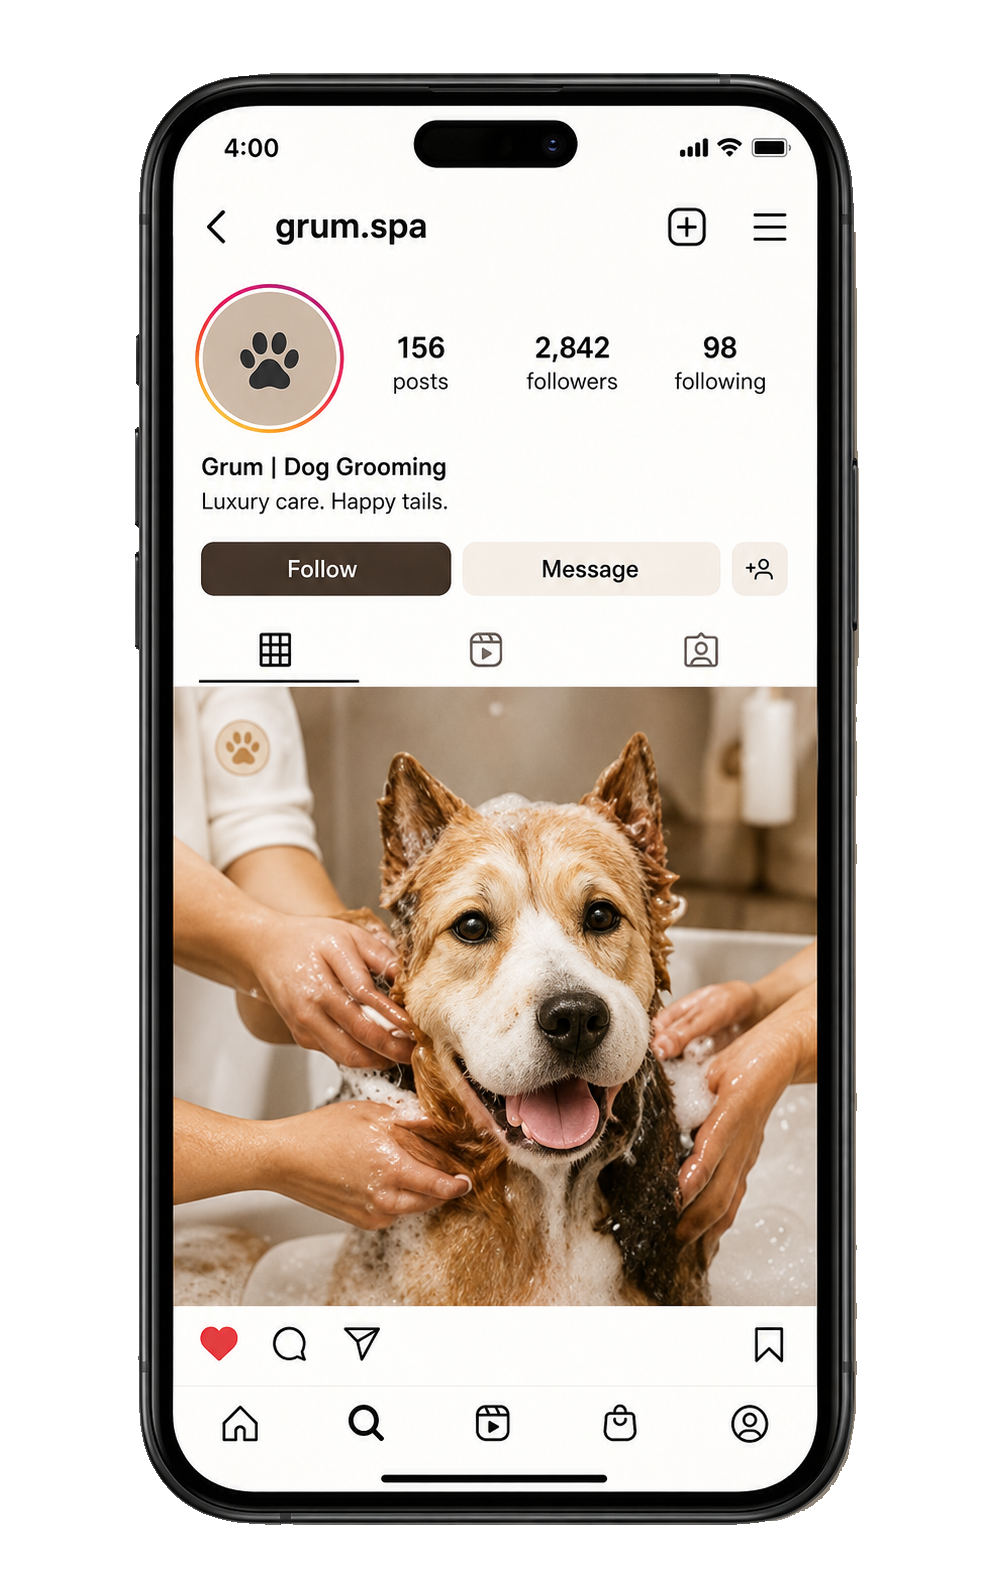
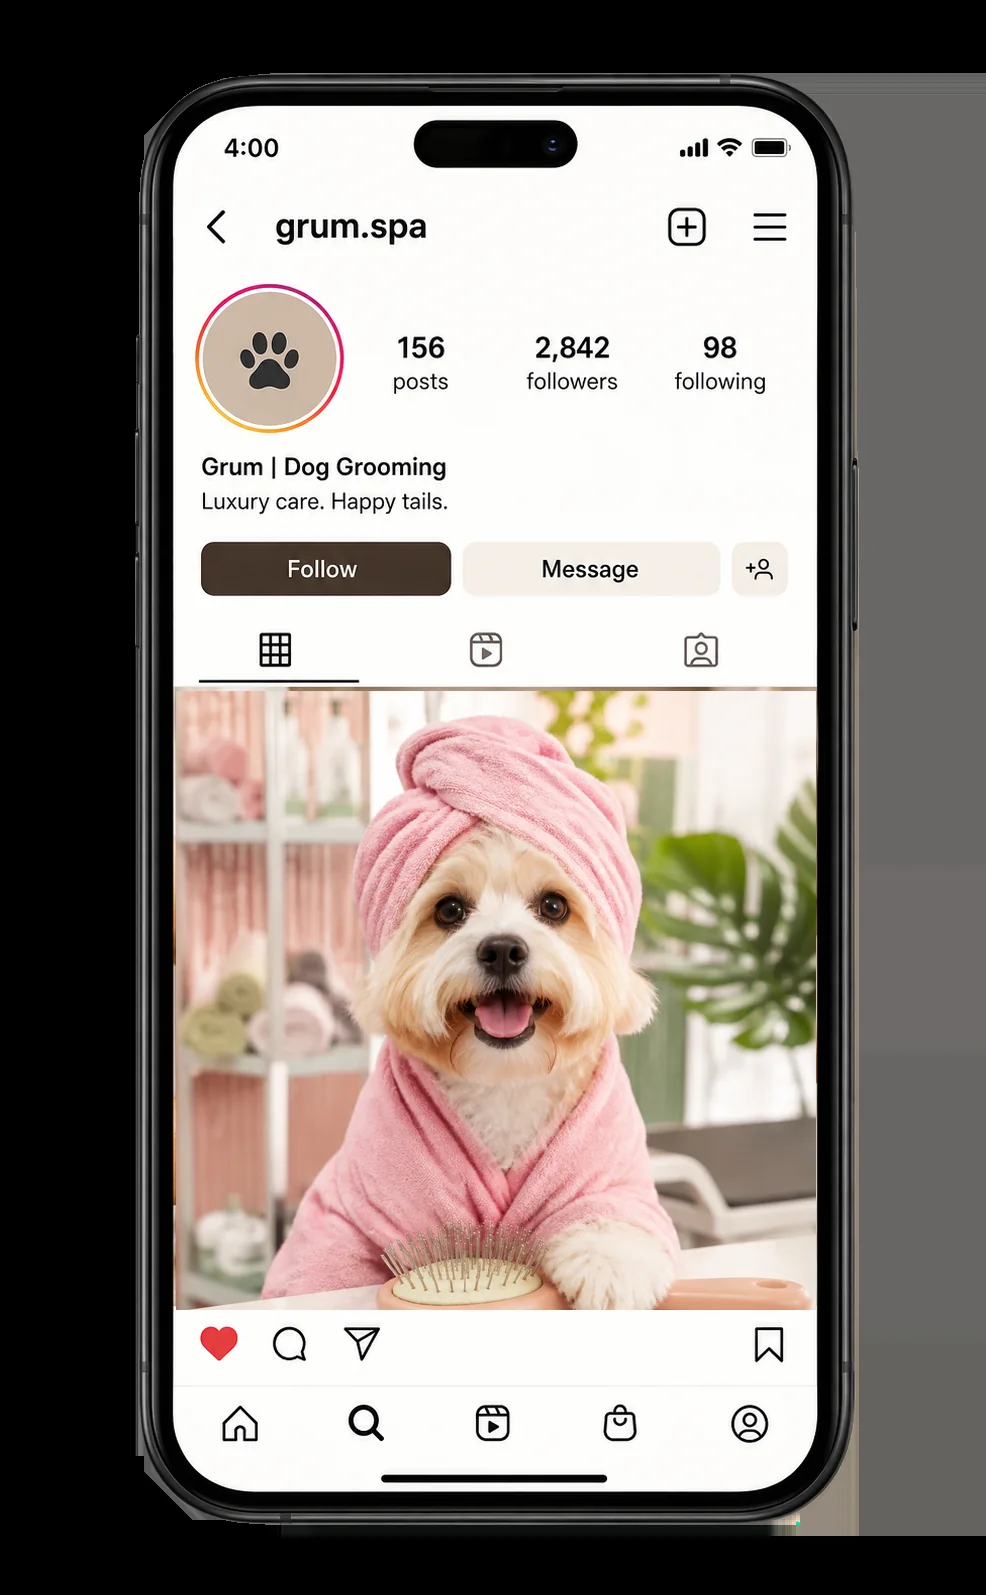
Refine Instagram and blog imagery

diff --git a/blog.html b/blog.html
@@ -28,7 +28,7 @@
           <button class="btn btn-primary" data-book><span class="phone-icon" aria-hidden="true"></span>BOOK APPOINTMENT</button>
         </div>
         <div class="page-hero-photo">
-          <img src="assets/blog-bath.webp" alt="White dog wrapped in a towel" />
+          <img src="assets/service-bath.jpg" alt="White dog wrapped in a towel" />
         </div>
       </div>
     </section>
@@ -39,8 +39,8 @@
         <h2 class="content-heading">GROOMING <span>GUIDES &amp; TIPS</span></h2>
 
         <div class="blog-list">
-          <article class="blog-post" tabindex="0" role="button" data-blog-title="HOW OFTEN SHOULD YOU ACTUALLY BATHE YOUR DOG?" data-blog-category="GROOMING BASICS" data-blog-image="assets/blog-bath.webp" data-blog-body="Most dogs do well with a bath every four to six weeks, but the right schedule depends on coat type, skin sensitivity, activity level, and how much time they spend outside.|Short-coated dogs may need less frequent baths, while curly, long, or double-coated dogs often need more regular professional care to prevent buildup and matting.|If your dog smells, feels greasy, scratches more than usual, or leaves extra dirt on bedding, it may be time for a bath. If the skin looks dry or irritated, we can help choose a gentler rhythm.">
-            <img src="assets/blog-bath.webp" alt="White dog wrapped in a towel" loading="lazy" />
+          <article class="blog-post" tabindex="0" role="button" data-blog-title="HOW OFTEN SHOULD YOU ACTUALLY BATHE YOUR DOG?" data-blog-category="GROOMING BASICS" data-blog-image="assets/service-bath.jpg" data-blog-detail-image="assets/blog-detail-bath.webp" data-blog-body="Most dogs do well with a bath every four to six weeks, but the right schedule depends on coat type, skin sensitivity, activity level, and how much time they spend outside.|Short-coated dogs may need less frequent baths, while curly, long, or double-coated dogs often need more regular professional care to prevent buildup and matting.|If your dog smells, feels greasy, scratches more than usual, or leaves extra dirt on bedding, it may be time for a bath. If the skin looks dry or irritated, we can help choose a gentler rhythm.">
+            <img src="assets/service-bath.jpg" alt="White dog wrapped in a towel" loading="lazy" />
             <div class="blog-post-body">
               <p class="blog-date">GROOMING BASICS</p>
               <h3>HOW OFTEN SHOULD YOU ACTUALLY BATHE YOUR DOG?</h3>
@@ -48,8 +48,8 @@
             </div>
           </article>
 
-          <article class="blog-post" tabindex="0" role="button" data-blog-title="BRUSHING BETWEEN VISITS: A 5-MINUTE ROUTINE THAT WORKS" data-blog-category="COAT CARE" data-blog-image="assets/blog-brushing.webp" data-blog-body="A short brushing routine a few times a week can make a huge difference, especially around the ears, chest, tail, belly, and legs where mats start fastest.|Use slow passes, work in small sections, and stop if your dog gets uncomfortable. The goal is consistency, not a wrestling match.|Regular brushing helps keep appointments calmer because the coat is easier to wash, dry, and style. It also lets you spot skin changes before they become bigger problems.">
-            <img src="assets/blog-brushing.webp" alt="A groomer gently brushing a Pomeranian" loading="lazy" />
+          <article class="blog-post" tabindex="0" role="button" data-blog-title="BRUSHING BETWEEN VISITS: A 5-MINUTE ROUTINE THAT WORKS" data-blog-category="COAT CARE" data-blog-image="assets/service-hair.jpg" data-blog-detail-image="assets/blog-detail-brushing.webp" data-blog-body="A short brushing routine a few times a week can make a huge difference, especially around the ears, chest, tail, belly, and legs where mats start fastest.|Use slow passes, work in small sections, and stop if your dog gets uncomfortable. The goal is consistency, not a wrestling match.|Regular brushing helps keep appointments calmer because the coat is easier to wash, dry, and style. It also lets you spot skin changes before they become bigger problems.">
+            <img src="assets/service-hair.jpg" alt="Fluffy pomeranian dog" loading="lazy" />
             <div class="blog-post-body">
               <p class="blog-date">COAT CARE</p>
               <h3>BRUSHING BETWEEN VISITS: A 5-MINUTE ROUTINE THAT WORKS</h3>
@@ -57,8 +57,8 @@
             </div>
           </article>
 
-          <article class="blog-post" tabindex="0" role="button" data-blog-title="SIGNS YOUR DOG'S NAILS ARE OVERDUE FOR A TRIM" data-blog-category="NAIL &amp; PAW CARE" data-blog-image="assets/blog-nails.webp" data-blog-body="If you hear clicking on hard floors, see nails touching the ground while your dog stands, or notice curling tips, it is probably time for a trim.|Long nails can change posture and make walking less comfortable. Some dogs also start slipping more because their paws cannot sit naturally.|For nervous pets, shorter and more frequent nail appointments can be easier than waiting until the nails are very long.">
-            <img src="assets/blog-nails.webp" alt="Small dog having nails clipped" loading="lazy" />
+          <article class="blog-post" tabindex="0" role="button" data-blog-title="SIGNS YOUR DOG'S NAILS ARE OVERDUE FOR A TRIM" data-blog-category="NAIL &amp; PAW CARE" data-blog-image="assets/service-nails.jpg" data-blog-detail-image="assets/blog-detail-nails.webp" data-blog-body="If you hear clicking on hard floors, see nails touching the ground while your dog stands, or notice curling tips, it is probably time for a trim.|Long nails can change posture and make walking less comfortable. Some dogs also start slipping more because their paws cannot sit naturally.|For nervous pets, shorter and more frequent nail appointments can be easier than waiting until the nails are very long.">
+            <img src="assets/service-nails.jpg" alt="Small dog having nails clipped" loading="lazy" />
             <div class="blog-post-body">
               <p class="blog-date">NAIL &amp; PAW CARE</p>
               <h3>SIGNS YOUR DOG'S NAILS ARE OVERDUE FOR A TRIM</h3>
@@ -66,7 +66,7 @@
             </div>
           </article>
 
-          <article class="blog-post" tabindex="0" role="button" data-blog-title="WHAT TO EXPECT AT YOUR DOG'S FIRST GRÜM APPOINTMENT" data-blog-category="FIRST VISIT" data-blog-image="assets/blog-first-visit.webp" data-blog-body="The first visit starts with a quick check-in so we can learn about your dog's coat, comfort level, health notes, and the service you want.|From there, we move at your pet's pace. A one-on-one appointment keeps things calmer because your dog is not waiting in a crowded space.|After the groom, we will let you know how the coat did, what maintenance helps at home, and when the next appointment should be.">
+          <article class="blog-post" tabindex="0" role="button" data-blog-title="WHAT TO EXPECT AT YOUR DOG'S FIRST GRÜM APPOINTMENT" data-blog-category="FIRST VISIT" data-blog-image="assets/blog-first-visit.webp" data-blog-detail-image="assets/blog-first-visit.webp" data-blog-body="The first visit starts with a quick check-in so we can learn about your dog's coat, comfort level, health notes, and the service you want.|From there, we move at your pet's pace. A one-on-one appointment keeps things calmer because your dog is not waiting in a crowded space.|After the groom, we will let you know how the coat did, what maintenance helps at home, and when the next appointment should be.">
             <img src="assets/blog-first-visit.webp" alt="A puppy meeting its groomer for the first time" loading="lazy" />
             <div class="blog-post-body">
               <p class="blog-date">FIRST VISIT</p>
@@ -90,7 +90,7 @@
   <dialog class="modal blog-detail-modal" id="blogDetailModal">
     <button class="modal-close" type="button" data-close-blog aria-label="Close">×</button>
     <div class="blog-detail-scroll">
-      <img id="blogDetailImage" src="assets/blog-bath.webp" alt="" loading="lazy" />
+      <img id="blogDetailImage" src="assets/blog-detail-bath.webp" alt="" loading="lazy" />
       <div class="blog-detail-copy">
         <p class="kicker" id="blogDetailCategory">BLOG</p>
         <h2 id="blogDetailTitle">BLOG POST.</h2>

diff --git a/index.html b/index.html
@@ -93,18 +93,19 @@
       <div class="section-width gallery-inner">
         <figure class="phone-mock grum-instagram">
           <img src="assets/instagram-phone.webp" alt="Grum dog grooming Instagram profile showing a dog enjoying a bath" />
+          <span class="instagram-message-label" aria-hidden="true">Message</span>
           <a class="profile" href="https://www.instagram.com/" target="_blank" rel="noopener noreferrer" aria-label="Open Instagram (opens in a new tab)"></a>
           <a class="follow" href="https://www.instagram.com/" target="_blank" rel="noopener noreferrer" aria-label="Open Instagram to follow (opens in a new tab)"></a>
         </figure>
         <div class="gallery-title"><p class="kicker">FOLLOW OUR JOURNEY!</p><h2>ON INSTAGRAM</h2></div>
         <a class="gallery-more" href="https://www.instagram.com/" target="_blank" rel="noreferrer">VIEW MORE ON INSTAGRAM <i aria-hidden="true"></i></a>
         <div class="ig-grid">
-          <img src="assets/ig-1.jpg" alt="Dog grooming Instagram post" loading="lazy" />
-          <img src="assets/ig-2.jpg" alt="Dog grooming Instagram post" loading="lazy" />
-          <img src="assets/ig-3.jpg" alt="Grüm grooming products" loading="lazy" />
-          <img src="assets/ig-4.jpg" alt="Golden retriever bathing" loading="lazy" />
-          <img src="assets/ig-5.jpg" alt="Groomed poodle" loading="lazy" />
-          <img src="assets/ig-6.jpg" alt="Grüm grooming studio" loading="lazy" />
+          <img src="assets/ig-funny-1.webp" alt="Dog peeking from a bubble bath" loading="lazy" />
+          <img src="assets/ig-funny-2.webp" alt="Dog dressed like a salon client" loading="lazy" />
+          <img src="assets/ig-funny-3.webp" alt="Dog inspecting grooming products" loading="lazy" />
+          <img src="assets/ig-funny-4.webp" alt="Dog getting a playful blow dry" loading="lazy" />
+          <img src="assets/ig-funny-5.webp" alt="Dog wrapped in a towel cape" loading="lazy" />
+          <img src="assets/ig-funny-6.webp" alt="Dog posing beside grooming brushes" loading="lazy" />
         </div>
       </div>
     </section>

diff --git a/homepage-carousel.js b/homepage-carousel.js
@@ -9,17 +9,16 @@
   viewport.setAttribute('aria-label', 'Dog photo carousel');
   track.before(viewport); viewport.append(track);
   const images = [
-    ['485294', 'Chihuahua wearing a shampoo foam hat'],
-    ['12943750', 'Curious terrier in a bubble bath'],
-    ['17802173', 'Two smiling poodles surrounded by bubbles'],
-    ['36174558', 'Small fluffy dog bathing in a red bucket'],
-    ['19145874', 'Poodle waiting in a grooming studio'],
-    ['6131151', 'Tiny dog being shampooed'],
-    ['6816870', 'Yorkshire terrier getting a haircut']
+    ['assets/ig-funny-1.webp', 'Dog peeking from a bubble bath'],
+    ['assets/ig-funny-2.webp', 'Dog dressed like a salon client'],
+    ['assets/ig-funny-3.webp', 'Dog inspecting grooming products'],
+    ['assets/ig-funny-4.webp', 'Dog getting a playful blow dry'],
+    ['assets/ig-funny-5.webp', 'Dog wrapped in a towel cape'],
+    ['assets/ig-funny-6.webp', 'Dog posing beside grooming brushes']
   ];
   track.replaceChildren();
-  for (let set = 0; set < 3; set++) images.forEach(([id, alt]) => {
-    const img = new Image(); img.src = `assets/gallery-${id}.webp`; img.alt = alt;
+  for (let set = 0; set < 3; set++) images.forEach(([src, alt]) => {
+    const img = new Image(); img.src = src; img.alt = alt;
     img.draggable = false; img.width = 180; img.height = 180;
     if (set !== 1) { img.alt = ''; img.setAttribute('aria-hidden','true'); }
     track.append(img);

diff --git a/enhancements.css b/enhancements.css
@@ -235,6 +235,29 @@ body[data-page="home"] .ig-grid.ig-infinite-carousel img{
 .site-header .btn-header{display:inline-flex;white-space:nowrap}
 body[data-page="home"] .phone-mock img{z-index:0;pointer-events:none}
 body[data-page="home"] .phone-mock a{z-index:2}
+body[data-page="home"] .grum-instagram{position:absolute}
+body[data-page="home"] .grum-instagram .instagram-message-label{
+  position:absolute;
+  left:53.5%;
+  top:34.1%;
+  z-index:2;
+  width:26%;
+  height:3.9%;
+  display:grid;
+  place-items:center;
+  border-radius:7px;
+  background:#f8f4ee;
+  color:#151515;
+  font-family:Arial,Helvetica,sans-serif;
+  font-size:9px;
+  line-height:1;
+  font-weight:800;
+}
+html[lang="de"] .grum-instagram .instagram-message-label{font-size:7.5px}
+html[lang="de"] .grum-instagram .instagram-message-label{color:transparent}
+html[lang="de"] .grum-instagram .instagram-message-label::after{content:"Nachricht";color:#151515}
+html[lang="es"] .grum-instagram .instagram-message-label{color:transparent}
+html[lang="es"] .grum-instagram .instagram-message-label::after{content:"Mensaje";color:#151515}
 html[lang="de"] .grum-instagram .follow::after{content:"Folgen"}
 html[lang="es"] .grum-instagram .follow::after{content:"Seguir"}
 body[data-page="home"] .ig-carousel-viewport{position:absolute;left:0;right:0;top:100px;height:190px;overflow:hidden;z-index:2;touch-action:pan-y;cursor:grab;user-select:none}

diff --git a/site.config.js b/site.config.js
@@ -61,9 +61,9 @@ window.SITE_CONFIG = {
   gallery: {
     kicker:'FOLLOW OUR JOURNEY!', heading:'ON INSTAGRAM', linkLabel:'VIEW MORE ON INSTAGRAM', phoneImage:'assets/instagram-phone.webp', phoneAlt:'Grüm Instagram profile on a phone',
     images:[
-      {src:'assets/ig-1.jpg',alt:'Dog grooming Instagram post'}, {src:'assets/ig-2.jpg',alt:'Dog grooming Instagram post'},
-      {src:'assets/ig-3.jpg',alt:'Grüm grooming products'}, {src:'assets/ig-4.jpg',alt:'Golden retriever bathing'},
-      {src:'assets/ig-5.jpg',alt:'Groomed poodle'}, {src:'assets/ig-6.jpg',alt:'Grüm grooming studio'},
+      {src:'assets/ig-funny-1.webp',alt:'Dog peeking from a bubble bath'}, {src:'assets/ig-funny-2.webp',alt:'Dog dressed like a salon client'},
+      {src:'assets/ig-funny-3.webp',alt:'Dog inspecting grooming products'}, {src:'assets/ig-funny-4.webp',alt:'Dog getting a playful blow dry'},
+      {src:'assets/ig-funny-5.webp',alt:'Dog wrapped in a towel cape'}, {src:'assets/ig-funny-6.webp',alt:'Dog posing beside grooming brushes'},
     ],
   },
   finalCta: { kicker:'READY FOR THEIR', heading:'BEST DAY EVER?', body:'We can’t wait to meet your best friend.', button:'BOOK APPOINTMENT', buttonSmall:'CLICK TO BOOK', image:'assets/footer-dog-cutout.webp', imageAlt:'Happy golden retriever' },

diff --git a/pages.css b/pages.css
@@ -49,7 +49,7 @@
 .svc-body{position:relative;z-index:2;margin-top:-1px;padding:19px 20px 20px;display:flex;align-items:center;justify-content:space-between;gap:12px;flex:1}
 .svc-body h3{font-family:'Anton',Impact,Haettenschweiler,sans-serif;font-size:18px;line-height:1;margin:0 0 8px;text-transform:uppercase}
 .svc-body p{font-family:Arial,Helvetica,sans-serif;font-size:10.5px;line-height:1.5;margin:0;color:rgba(255,255,255,.92)}
-.svc-price{font-family:Arial,Helvetica,sans-serif;font-size:9.5px;font-weight:800;letter-spacing:.4px;color:rgba(255,255,255,.85);margin-top:8px;display:block}
+.svc-price{font-family:Georgia,'Times New Roman',serif;font-size:12px;font-weight:700;font-style:italic;letter-spacing:0;color:rgba(255,255,255,.88);margin-top:8px;display:block;text-transform:none}
 .svc-card.svc-green .svc-body{background:var(--green-dark)}
 .svc-card.svc-black .svc-body{background:#232121}
 .svc-card.svc-orange .svc-body{background:var(--orange)}

diff --git a/script.js b/script.js
@@ -325,7 +325,7 @@
     const localized = blogLocale[lang]?.[originalTitle];
     const title = localized?.title || originalTitle;
     const category = localized?.category || post.dataset.blogCategory || post.querySelector('.blog-date')?.textContent || 'Blog';
-    const image = post.dataset.blogImage || post.querySelector('img')?.getAttribute('src') || '';
+    const image = post.dataset.blogDetailImage || post.dataset.blogImage || post.querySelector('img')?.getAttribute('src') || '';
     const body = localized?.body || (post.dataset.blogBody || '').split('|').filter(Boolean);
     const titleEl = document.getElementById('blogDetailTitle');
     const categoryEl = document.getElementById('blogDetailCategory');
